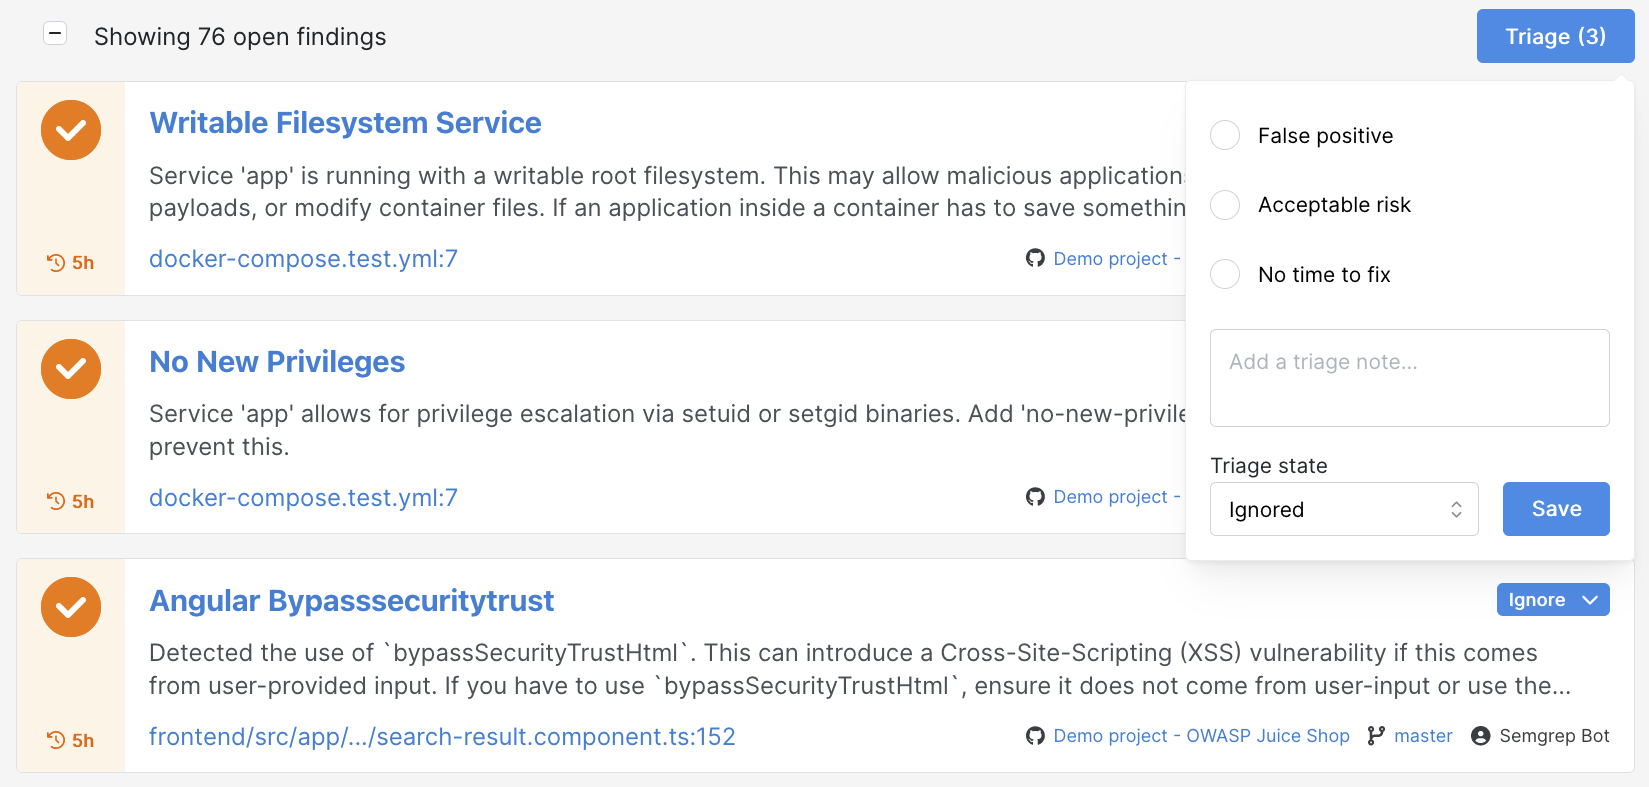
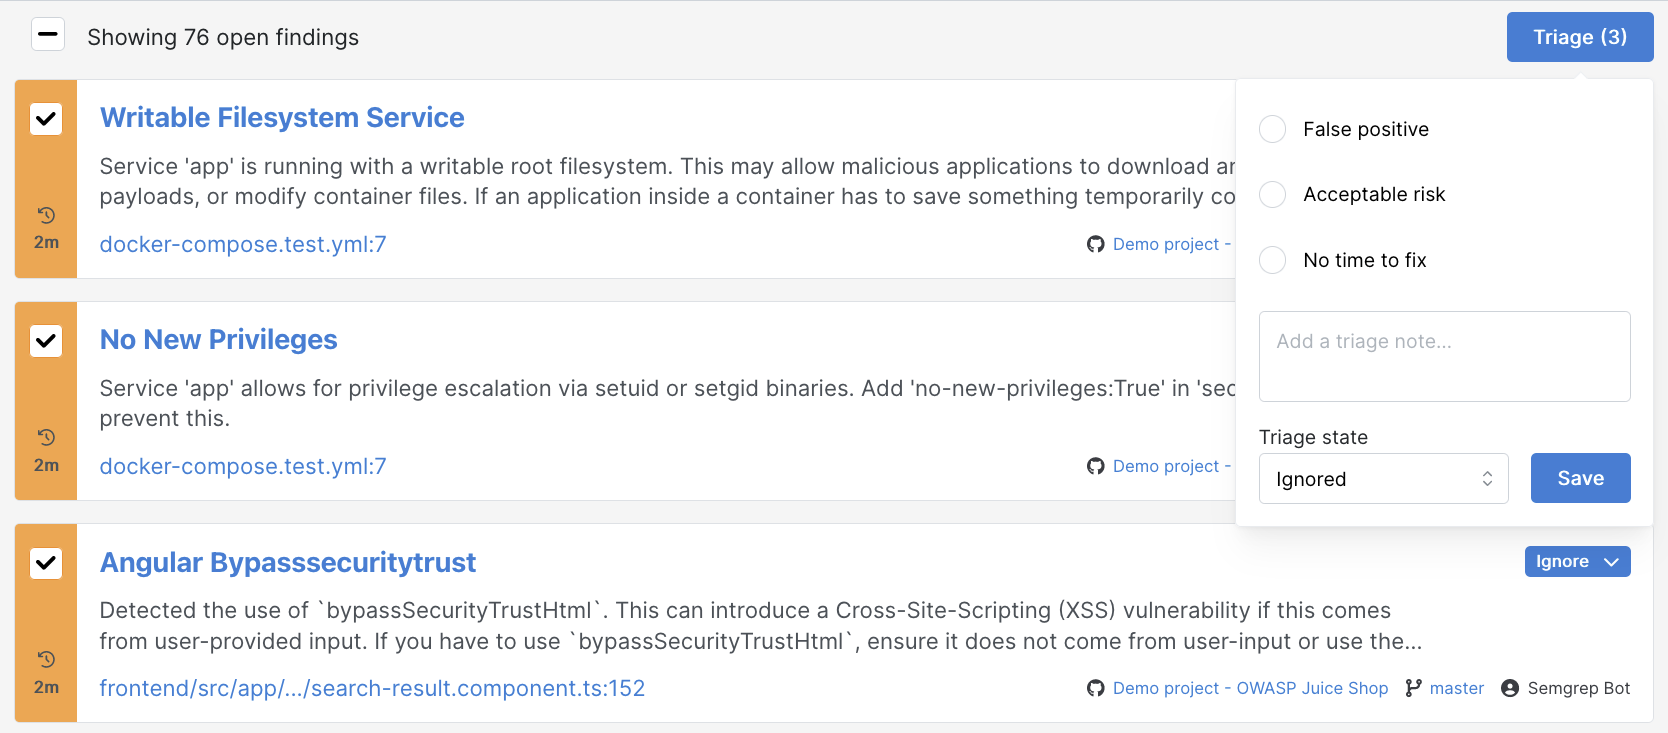
Update findings page screenshots and procedures

diff --git a/docs/semgrep-app/findings.md b/docs/semgrep-app/findings.md
@@ -141,7 +141,7 @@ To **ignore multiple findings**, follow these steps:
 1. On the [Findings](https://semgrep.dev/orgs/-/findings?tab=open) page, click the **Status** filter, and then select **Open** status to see all open findings.
 1. Perform one of these steps:
     - Select all findings by clicking on the header row checkbox that states **Showing X open findings**. You can navigate to succeeding pages and add other results to the current selection.
-    - Select more findings by clicking on their checkboxes. The finding's checkbox is marked as the colorful finding's status indicator (marked by letters **L** (Low), **M** (Medium), **H** (High)).
+    - Select more findings by clicking on their checkboxes.
 1. Click the **Triage** button.
 1. Optional: Select a reason of why you are ignoring a finding. Choose either: **False positive**, **Acceptable risk**, **No time to fix**
 1. Select **Ignored** from the dropdown menu.
@@ -166,7 +166,7 @@ To **open findings**, follow these steps:
 1. On the [Findings](https://semgrep.dev/orgs/-/findings?tab=open) page, click the **Status** filter, and then select **Ignored** or **Fixed** status to see all ignored or fixed findings.
 1. Perform one of these steps:
     - Select all findings by clicking on the header row checkbox that states **Showing X open findings**. You can navigate to succeeding pages and add other results to the current selection.
-    - Select relevant findings one by one by clicking on their checkboxes. The finding's checkbox is marked as the colorful finding's status indicator (marked by letters **L** (Low), **M** (Medium), **H** (High)).
+    - Select relevant findings one by one by clicking on their checkboxes.
 1. Click the **Triage** button.
 1. In the **Triage state** dropdown menu, select **Reopened**.
 1. Click **Save**.
